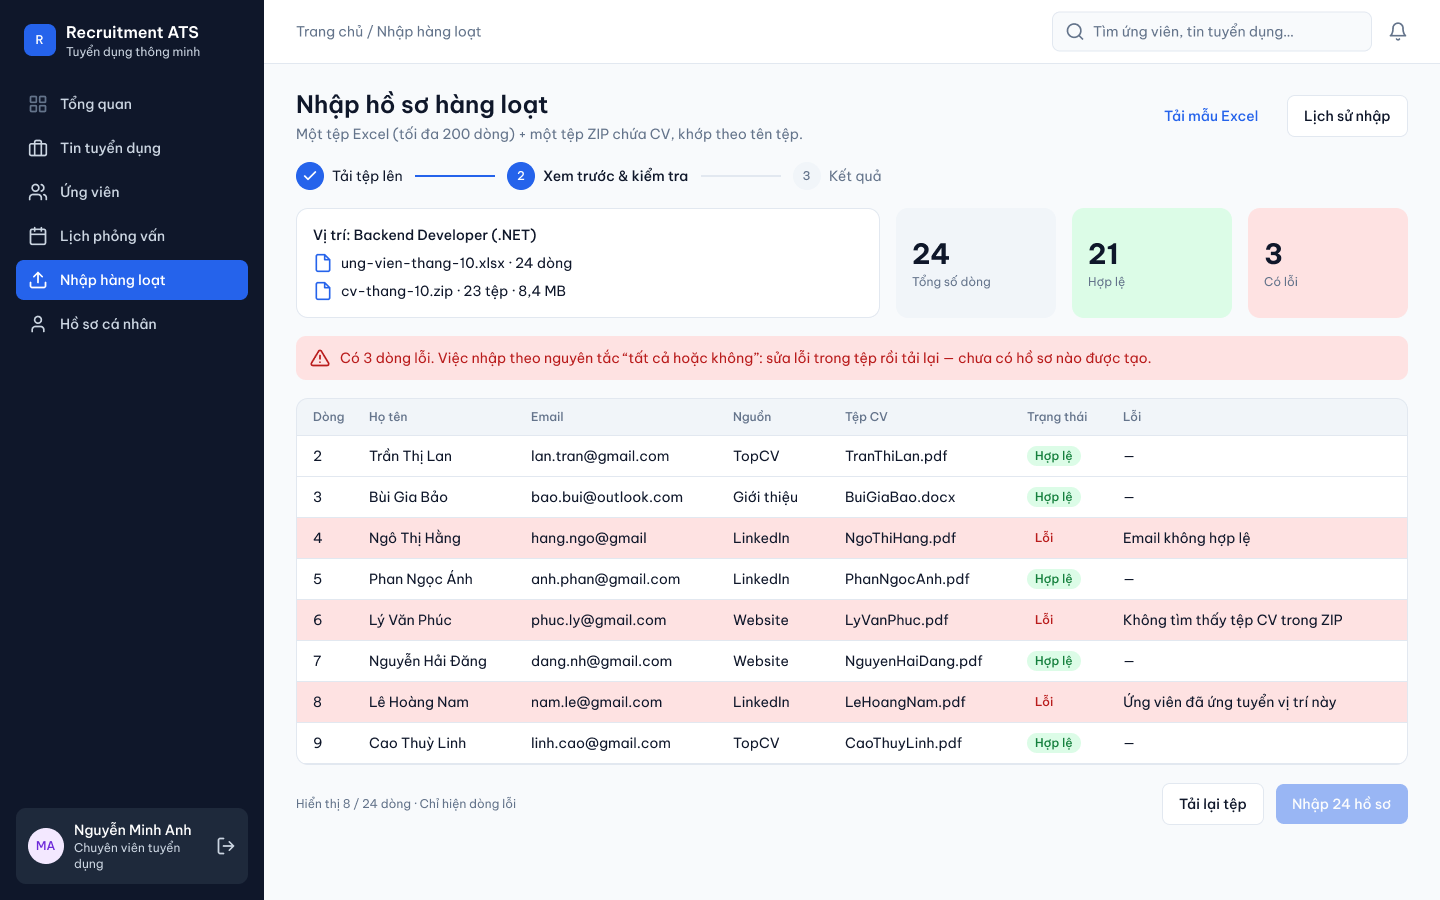
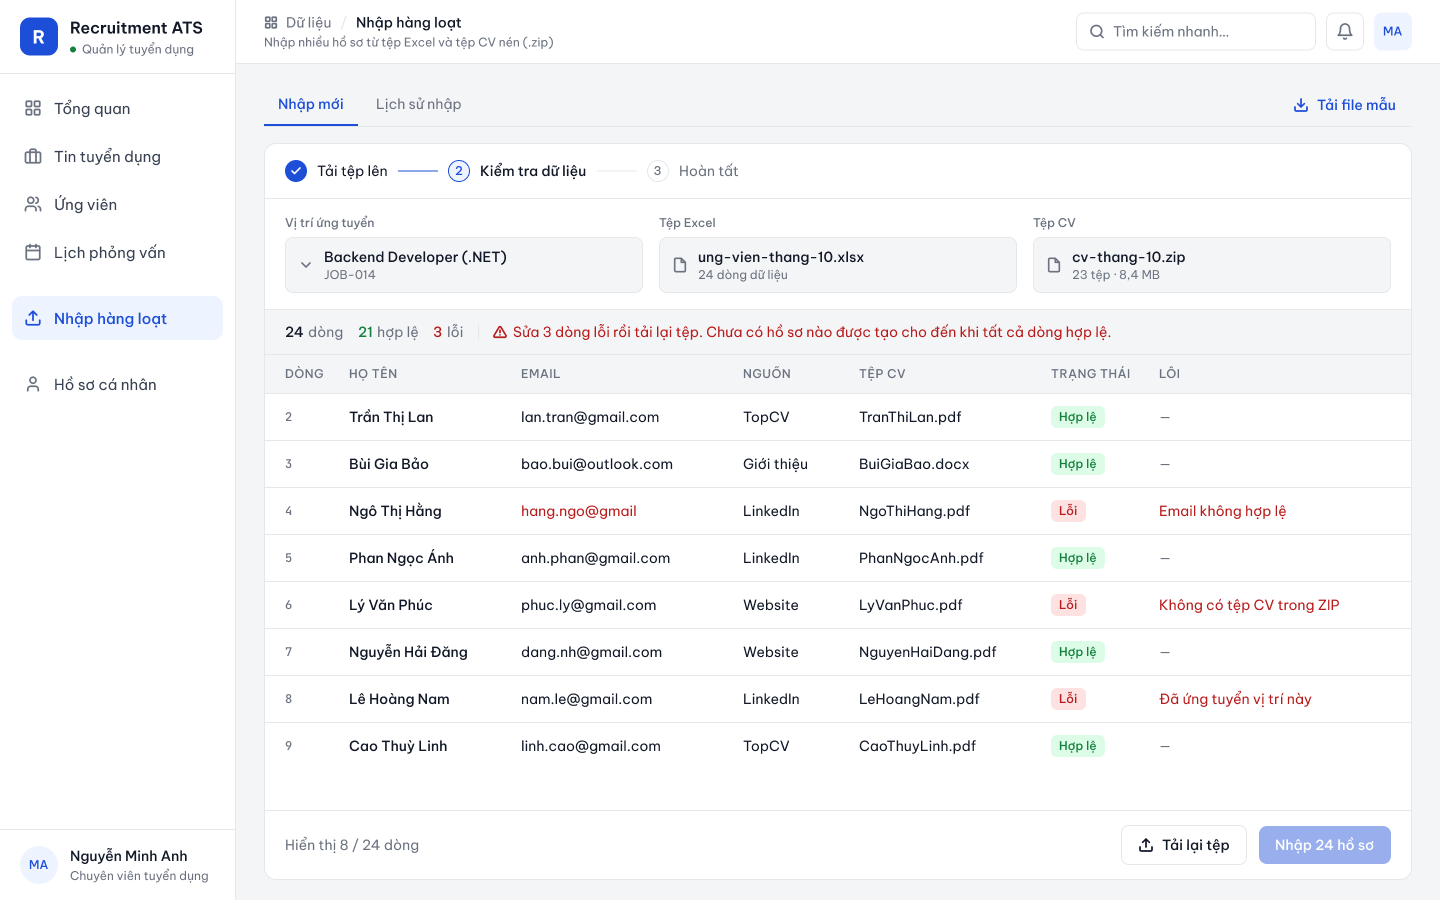
Redesign UI and mind map to match the reference project style
- Mind map redrawn as a balanced, aligned XMind-style map (PNG + .xmind)
- UI rebuilt in the reference visual language: light sidebar, breadcrumb
  topbar, uppercase table headers, monospace codes, forms in modals
- Remove AI-specific colour, decorative copy, and placeholder skeletons
- Update IA and UI/UX documents to the new screens

diff --git a/docs/05-ui-ux.md b/docs/05-ui-ux.md
@@ -4,12 +4,15 @@
 >
 > Figma file: [Recruitment ATS — UI](https://www.figma.com/design/0TYozUq5jB0KJcdo8vjVjQ/Untitled?node-id=0-1)
 
+The visual language follows the course reference project (HandmadeFinance): light sidebar, breadcrumb topbar with a one-line page description, white cards on a light-grey canvas, uppercase table headers, monospace record codes, and forms in modals. The UI is a working tool, not a marketing page: no decorative gradients in the app shell, no colour reserved for AI, no explanatory copy about how the system works inside the screens.
+
 ## Figma structure
 
 | Page | Content |
 |---|---|
 | `00 Foundations` | Colour variables, text styles, icons, and reusable components |
 | `01 Screens` | 11 desktop screens (1440 × 900), arranged in three rows by flow |
+| `02 Mind map` | Product mind map (exported to `docs/mindmap.png`) |
 
 ![Foundations](images/screens/00-foundations.png)
 
@@ -17,65 +20,63 @@
 
 ### Typography
 
-Font: **Be Vietnam Pro** (designed for Vietnamese diacritics).
+| Style | Font | Weight | Size / line height | Usage |
+|---|---|---|---|---|
+| `Display/H1` | Be Vietnam Pro | SemiBold | 24 / 32 | Modal titles |
+| `Display/H2` | Be Vietnam Pro | SemiBold | 18 / 26 | Brand name |
+| `Display/H3` | Be Vietnam Pro | SemiBold | 16 / 24 | Card titles |
+| `Body/Regular` · `Body/Medium` | Be Vietnam Pro | Regular · Medium | 14 / 20 | Body text, table cells, buttons |
+| `Caption/Regular` · `Caption/Medium` | Be Vietnam Pro | Regular · Medium | 12 / 16 | Meta information, labels |
+| `Table/Header` | Be Vietnam Pro | Medium, uppercase, +4% tracking | 12 / 16 | Table column headers |
+| `KPI/Value` | Be Vietnam Pro | Bold | 26–30 | Stat cards, fit score |
+| `Mono/Code` | JetBrains Mono | Medium | 12 / 16 | Record codes (`JOB-014`, `APP-0142`), interview times |
 
-| Style | Weight | Size / line height | Usage |
-|---|---|---|---|
-| `Display/H1` | SemiBold | 24 / 32 | Page titles |
-| `Display/H2` | SemiBold | 18 / 26 | Section titles, drawer titles |
-| `Display/H3` | SemiBold | 16 / 24 | Panel titles |
-| `Body/Regular` | Regular | 14 / 20 | Body text, table cells |
-| `Body/Medium` | Medium | 14 / 20 | Buttons, names, emphasis |
-| `Caption/Regular` | Regular | 12 / 16 | Meta information, hints |
-| `Caption/Medium` | Medium | 12 / 16 | Labels, badges, table headers |
-| `KPI/Value` | Bold | 28 / 36 | KPI numbers, fit score |
+Be Vietnam Pro is designed for Vietnamese diacritics.
 
 ### Colour tokens (Figma variables, collection `ATS Tokens`)
 
 | Token | Value | Usage |
 |---|---|---|
-| `color/primary` | `#2563EB` | Primary actions, active navigation, chart bars |
-| `color/text` / `color/text-muted` | `#0F172A` / `#64748B` | Text hierarchy |
-| `color/bg` / `color/surface` / `color/border` | `#F8FAFC` / `#FFFFFF` / `#E2E8F0` | Page, cards, dividers |
-| `color/sidebar` | `#0F172A` | Navigation sidebar |
-| `color/success` (+ `-soft`) | `#15803D` | Status: valid, active, score ≥ 75 |
-| `color/warning` (+ `-soft`) | `#B45309` | Status: score 50–74, missing must-have, deadline near |
-| `color/danger` (+ `-soft`) | `#B91C1C` | Status: errors, rejected, not met |
-| `color/ai` (+ `-soft`) | `#6D28D9` | Everything produced by AI is purple, so users always know what is an AI suggestion |
+| `color/primary` / `-soft` | `#1D4ED8` / `#EEF4FF` | Primary actions, active navigation, links, chart bars, selected options |
+| `color/text` / `color/text-muted` | `#111827` / `#6B7280` | Text hierarchy |
+| `color/bg` / `color/surface` / `color/border` | `#F4F5F7` / `#FFFFFF` / `#E5E7EB` | Canvas, cards, dividers |
+| `color/success` / `-soft` | `#15803D` / `#DCFCE7` | Status: active, valid, criterion met |
+| `color/warning` / `-soft` | `#B45309` / `#FEF3C7` | Status: deadline near, partial, missing must-have, CV evidence highlight |
+| `color/danger` / `-soft` | `#B91C1C` / `#FEE2E2` | Status: errors, criterion not met, overdue |
 
-Status colours are reserved for states and are always paired with a text label; they are never used to separate chart series.
+Status colours appear only as a small pill or a dot next to text — never as the only signal and never to separate chart series.
 
 ### Components
 
 | Component | Variants / properties |
 |---|---|
-| `Button` | `Type` = Primary, Secondary, Ghost, Danger, AI · `Label` |
-| `Badge` | `Tone` = Neutral, Info, Success, Warning, Danger, AI · `Label` |
-| `Input` | `Label`, `Value` (label is always visible) |
+| `Sidebar` | `User name`, `User role`, `Initials`; three nav groups; items hidden per role |
 | `NavItem` | `State` = Default, Active · `Label` · `Icon` (instance swap) |
-| `Sidebar` | `User name`, `User role`; nav items hidden per role |
-| `Topbar` | `Breadcrumb` |
-| `KPI Card` | `Label`, `Value`, `Delta` |
-| `Candidate Card` | `Name`, `Meta`, `Initials`, `Missing must-have` (boolean); nested score badge |
-| `icon/*` | 20 line icons (24-grid, 2 px stroke) |
+| `Topbar` | `Section`, `Page`, `Subtitle`, `Initials` |
+| `Button` | `Type` = Primary, Secondary, Ghost, Danger · `Label` · `Has icon` · `Icon` |
+| `Badge` | `Tone` · `Label` |
+| `Input` | `Label`, `Value` |
+| `Stat Card` | `Label`, `Value`, `Note` |
+| `Candidate Card` | `Name`, `Meta`, `Score`, `Missing must-have` (boolean) |
+| `icon/*` | 32 line icons (24-grid, 2 px stroke) |
 
 ## Screens
 
 | Screen | Figma frame | Role shown | Key UX decisions |
 |---|---|---|---|
-| `SCR-01` Login | SCR-01 Đăng nhập | — | Generic error for wrong password and disabled account (no account enumeration) |
-| `SCR-02` Dashboard | SCR-02 Tổng quan | HR Manager | KPIs, funnel, upcoming interviews, AI screening status, postings near deadline |
-| `SCR-10` Job postings | SCR-10 Danh sách tin tuyển dụng | Recruiter | Pipeline counts per posting in one column; status badge with text |
-| `SCR-11` Create posting | SCR-11 Tạo tin tuyển dụng | Recruiter | Criteria builder with must-have / nice-to-have and weight 1–5; scoring formula explained in place |
-| `SCR-13` Pipeline | SCR-13 Pipeline (Kanban) | Recruiter | AI score on every card, "Đang phân tích" state, "Thiếu tiêu chí bắt buộc" flag; Kanban/table toggle |
-| `SCR-23` AI analysis | SCR-23 Chi tiết hồ sơ — Phân tích AI | Recruiter | Score ring, per-criterion result + quote, highlighted quotes in CV preview, redaction note, AI disclaimer |
-| `SCR-24` Override AI | SCR-24 Điều chỉnh kết quả AI | Recruiter | Drawer keeps context; AI result vs. human result; mandatory reason; live score preview; audit note |
-| `SCR-32` Scorecard | SCR-32 Phiếu đánh giá phỏng vấn | Interviewer | Other scorecards locked until submit; AI score hidden; validation blocks incomplete submission |
-| `SCR-40` Bulk import | SCR-40 Nhập hàng loạt | Recruiter | 3-step wizard; all-or-nothing message; error rows highlighted with reason; import button disabled |
-| `SCR-50` Reports | SCR-50 Báo cáo tuyển dụng | HR Manager | Single-hue charts, direct value labels, "Xem dạng bảng" alternative, export PDF/XLSX |
-| `SCR-70` Users | SCR-70 Quản lý người dùng | Admin | Role and status badges; activate / deactivate inline |
+| `SCR-01` Login | SCR-01 Đăng nhập | — | Two panels as in the reference; demo-account chips per role; generic error for wrong password and disabled account |
+| `SCR-02` Dashboard | SCR-02 Tổng quan | HR Manager | Pipeline per position as a table, today's interviews, newest applications, and a *Cần xử lý* list of actionable items |
+| `SCR-10` Job postings | SCR-10 Tin tuyển dụng | Recruiter | Codes in monospace; hires vs. headcount; status pill only where it matters |
+| `SCR-11` Create posting | SCR-11 Tạo tin tuyển dụng (modal) | Recruiter | Modal with grouped sections; criteria as editable rows (name, type, weight); description collapsed |
+| `SCR-13` Pipeline | SCR-13 Pipeline ứng viên | Recruiter | Kanban columns with counts; card shows AI score chip and a warning line only when a must-have is missing |
+| `SCR-23` Criteria evaluation | SCR-23 Chi tiết hồ sơ — Đánh giá tiêu chí | Recruiter | Stage stepper; criteria table (weight, result, CV quote); CV preview with the quoted passages highlighted |
+| `SCR-24` Override | SCR-24 Điều chỉnh kết quả tiêu chí (modal) | Recruiter | AI result vs. adjusted result; mandatory reason with counter; score preview 89 → 92 |
+| `SCR-32` Scorecard | SCR-32 Phiếu đánh giá phỏng vấn | Interviewer | 1–5 segmented rating per criterion; unscored row marked; submit disabled until complete; panel status without others' content |
+| `SCR-40` Bulk import | SCR-40 Nhập hàng loạt | Recruiter | Stepper; file summary; counts; error rows explained in the last column; import disabled while errors exist |
+| `SCR-50` Reports | SCR-50 Báo cáo | HR Manager | Filter panel as in the reference; single-hue bar charts with value labels; export |
+| `SCR-70` Users | SCR-70 Người dùng | Admin | Role as plain text, status pill, inline edit and actions |
 
-Remaining screens from the [screen inventory](04-information-architecture.md#screen-inventory) (job detail overview, candidate table, add-application modal, move/reject modal, edit candidate, schedule interview, my interviews, audit log, profile, 403) reuse the same shell and components and are specified in the IA document.
+Remaining screens from the [screen inventory](04-information-architecture.md#screen-inventory) (job detail overview, candidate table, add-application modal, move/reject modal, edit candidate, schedule interview, my interviews, audit log, profile, 403) reuse the same shell and components.
 
 ### Login
 
@@ -89,7 +90,7 @@ Remaining screens from the [screen inventory](04-information-architecture.md#scr
 
 ![Job postings](images/screens/10-job-list.png)
 
-### Create job posting with evaluation criteria
+### Create job posting
 
 ![Create job posting](images/screens/11-job-form.png)
 
@@ -97,19 +98,19 @@ Remaining screens from the [screen inventory](04-information-architecture.md#scr
 
 ![Pipeline](images/screens/13-pipeline-kanban.png)
 
-### Application detail — AI analysis
+### Application detail — criteria evaluation
 
-![AI analysis](images/screens/23-application-ai-analysis.png)
+![Criteria evaluation](images/screens/23-application-evaluation.png)
 
-### Override AI result
+### Override a criterion result
 
-![Override AI result](images/screens/24-ai-override-drawer.png)
+![Override](images/screens/24-override-modal.png)
 
-### Interview scorecard (Interviewer, blind)
+### Interview scorecard (Interviewer)
 
 ![Scorecard](images/screens/32-scorecard.png)
 
-### Bulk import — preview
+### Bulk import
 
 ![Bulk import](images/screens/40-bulk-import.png)
 
@@ -123,12 +124,11 @@ Remaining screens from the [screen inventory](04-information-architecture.md#scr
 
 ## UX principles applied
 
-1. **AI is visibly advisory.** Purple marks every AI output; a disclaimer appears wherever a score is shown; no button lets AI change a stage.
-2. **Evidence before trust.** Each criterion shows the CV quote; quotes are highlighted in the CV preview so the recruiter can check them in seconds.
-3. **Human override is cheap but accountable.** Override is one drawer away, requires a reason, previews the new score, and is audited.
-4. **Fairness by design.** Personal data is redacted before AI analysis; interviewers do not see AI scores or other scorecards before submitting.
-5. **Role-shaped navigation.** The sidebar shows only permitted items (Recruiter: 6 items, Interviewer: 5, HR Manager and Admin: 9).
-6. **Recoverable errors.** Validation keeps user input and explains the rule (import errors per row, incomplete scorecard, wrong credentials).
-7. **Accessible by default.** Visible labels, WCAG AA contrast, status never by colour alone, keyboard alternative for drag-and-drop.
+1. **Evidence over decoration.** An AI score is a number next to the quotes that justify it; the quoted passages are highlighted in the CV so a recruiter can check them in seconds.
+2. **Human decisions stay explicit.** Stage changes are buttons the user presses; adjusting an AI result requires a reason and keeps the original.
+3. **Independent evaluation.** Interviewers see who has submitted, not what they wrote, until their own scorecard is in; the AI score is not shown to interviewers.
+4. **Role-shaped navigation.** The sidebar shows only permitted items (Recruiter 6, Interviewer 5, HR Manager and Admin 9).
+5. **Recoverable errors.** Validation keeps input and states the rule where it applies (import errors per row, unscored criterion, wrong credentials).
+6. **Accessible by default.** Visible labels, WCAG AA contrast, status never by colour alone, keyboard alternative for drag-and-drop.
 
 **Related:** [Information architecture](04-information-architecture.md) · [Use cases](02-use-cases.md)

diff --git a/docs/04-information-architecture.md b/docs/04-information-architecture.md
@@ -19,7 +19,7 @@ Recruitment ATS
     │   └── Interviewer variant: my interviews + pending scorecards
     ├── Job postings (Tin tuyển dụng)
     │   ├── List (search, status / department / owner filters, paging)
-    │   ├── Create / edit (details + criteria builder)
+    │   ├── Create / edit modal (details + criteria builder)
     │   └── Detail
     │       ├── Overview
     │       ├── Criteria
@@ -29,7 +29,7 @@ Recruitment ATS
     │   ├── Add application modal (CV upload)
     │   └── Application detail
     │       ├── Profile & CV preview
-    │       ├── AI analysis (score, criteria evidence, override drawer)
+    │       ├── Criteria evaluation (fit score, per-criterion evidence, override modal)
     │       ├── Interviews & scorecards
     │       └── Stage history
     ├── Interviews (Lịch phỏng vấn)
@@ -52,7 +52,7 @@ Recruitment ATS
 
 `#/login` `#/dashboard` `#/jobs` `#/jobs/new` `#/jobs/:id` `#/jobs/:id/edit` `#/jobs/:id/pipeline` `#/applications` `#/applications/:id` `#/interviews` `#/interviews/:id/scorecard` `#/import` `#/reports` `#/audit` `#/users` `#/profile` `#/403`
 
-Small forms (add application, edit candidate, move stage, reject, schedule interview, override AI, user form) open as **modals or drawers** on their parent page. Job posting create/edit is a full page because the criteria builder needs space.
+Forms (create/edit job posting, add application, edit candidate, move stage, reject, schedule interview, override a criterion result, user form) open as **modals** on their parent page, following the reference project's modal pattern: breadcrumb, title, short description, grouped field sections, and a sticky footer with actions.
 
 ## Navigation by role
 
@@ -77,14 +77,14 @@ Unauthorized items are **not rendered** in the sidebar; direct URL access shows 
 | `SCR-01` | Login | Page (two-column) | US01, US02 |
 | `SCR-02` | Dashboard | Page | US03 |
 | `SCR-10` | Job posting list | Page | US04, US07 |
-| `SCR-11` | Job posting create / edit | Page | US05, US06 |
+| `SCR-11` | Job posting create / edit | Modal on `SCR-10` | US05, US06 |
 | `SCR-12` | Job posting detail | Tabbed page | US04, US07 |
 | `SCR-13` | Pipeline board (Kanban) | Tab of `SCR-12` | US08, US11 |
 | `SCR-20` | Candidate table | Page | US08 |
 | `SCR-21` | Add application | Modal | US09 |
 | `SCR-22` | Application detail | Tabbed page | US08, US10, US11 |
-| `SCR-23` | AI analysis | Tab of `SCR-22` | US12 |
-| `SCR-24` | Override AI result | Drawer on `SCR-23` | US13 |
+| `SCR-23` | Criteria evaluation (AI) | Tab of `SCR-22` | US12 |
+| `SCR-24` | Override criterion result | Modal on `SCR-23` | US13 |
 | `SCR-25` | Move stage / reject | Modal | US11 |
 | `SCR-26` | Edit candidate | Modal | US10 |
 | `SCR-30` | Schedule interview | Modal | US14 |
@@ -130,7 +130,7 @@ flowchart TB
     Login["SCR-01 Login"] --> Shell["Authenticated shell<br/>sidebar + topbar"]
     Shell --> Dashboard["SCR-02 Dashboard"]
     Shell --> Jobs["SCR-10 Job postings"]
-    Jobs --> JobForm["SCR-11 Create / edit posting"]
+    Jobs --> JobForm["SCR-11 Create / edit posting modal"]
     Jobs --> JobDetail["SCR-12 Posting detail"]
     JobDetail --> Pipeline["SCR-13 Pipeline board"]
     Shell --> Candidates["SCR-20 Candidate table"]
@@ -138,8 +138,8 @@ flowchart TB
     Pipeline --> AddApp
     Candidates --> AppDetail["SCR-22 Application detail"]
     Pipeline --> AppDetail
-    AppDetail --> AI["SCR-23 AI analysis tab"]
-    AI --> Override["SCR-24 Override drawer"]
+    AppDetail --> AI["SCR-23 Criteria evaluation tab"]
+    AI --> Override["SCR-24 Override modal"]
     AppDetail --> Move["SCR-25 Move / reject modal"]
     AppDetail --> EditCand["SCR-26 Edit candidate modal"]
     AppDetail --> Schedule["SCR-30 Schedule interview modal"]
@@ -215,21 +215,19 @@ flowchart LR
 
 | Status | Badge (UI) | Behavior |
 |---|---|---|
-| `PENDING` / `PROCESSING` | "Đang phân tích" (spinner) | Card and detail show progress; page polls every 5 s |
-| `COMPLETED` | Score 0–100 with color band + "Thiếu tiêu chí bắt buộc" badge when flagged | Evidence list per criterion; quotes highlighted in the CV preview |
-| `FAILED` | "Phân tích lỗi" | Reason + "Phân tích lại" button; manual screening remains available |
+| `PENDING` / `PROCESSING` | Card meta "Đang phân tích CV…", score chip "AI —" | Page polls every 5 s |
+| `COMPLETED` | Score chip "AI 89"; warning line "Thiếu tiêu chí bắt buộc" with icon when flagged | Criteria table with result and quote; quotes highlighted in the CV preview |
+| `FAILED` | "Không phân tích được" (listed under *Cần xử lý* on the dashboard) | Reason + "Phân tích lại"; manual screening remains available |
 | `OUTDATED` | "Cần phân tích lại" | Criteria changed after analysis; old result still readable |
 | Overridden | "Đã điều chỉnh" | Shows AI value and human value side by side, with reason and actor |
 
-Score color bands: ≥ 75 green, 50–74 amber, < 50 grey. Colour is always combined with the number, never used alone.
-
-AI content is always labeled **"Gợi ý từ AI — quyết định cuối cùng thuộc về người tuyển dụng"**.
+The score is shown as a plain number; AI output gets no special colour. Criterion results use a status dot plus text (Đạt / Một phần / Không đạt), never colour alone. Every AI result carries the provenance line **"Gợi ý bởi AI · phân tích lúc …"**, and the override modal states that the original AI result is kept.
 
 ## Responsive and accessibility rules
 
 - Target: desktop first (≥ 1280 px). Tablet uses a collapsible sidebar; the Kanban board scrolls horizontally.
 - Kanban drag-and-drop always has a keyboard alternative ("Chuyển giai đoạn…" menu).
-- Modals and drawers trap focus, close with `Escape` when no submission is running, and restore focus to the trigger.
+- Modals trap focus, close with `Escape` when no submission is running, and restore focus to the trigger.
 - Every input has a visible label; icon-only buttons have accessible names; status and scores are never shown by colour alone.
 - Text contrast meets WCAG 2.1 AA (4.5:1 for body text).
 - Dates use `dd/MM/yyyy` and times `HH:mm` in the user's timezone.

diff --git a/README.md b/README.md
@@ -29,50 +29,9 @@ Full analysis, market research (Greenhouse, Base E-Hiring), scope, constraints, 
 
 ### 1.2 Product mind map
 
-Editable XMind file: [`docs/mindmap/recruitment-ats.xmind`](docs/mindmap/recruitment-ats.xmind).
+![Recruitment ATS mind map](docs/mindmap.png)
 
-```mermaid
-mindmap
-  root((Recruitment ATS))
-    Problem
-      CVs scattered across channels
-      Manual slow screening
-      No pipeline visibility
-      Biased interview feedback
-      Personal data risk
-    Roles
-      Admin
-      HR Manager
-      Recruiter
-      Interviewer
-      AI service - external
-    E1 Access and accounts
-      Login and logout
-      User management
-      Profile and password
-    E2 Job postings
-      Browse and search
-      Create and edit with weighted criteria
-      Close and reopen
-    E3 Candidates
-      Kanban and table views
-      Add application with CV
-      Pipeline stages
-      Bulk import Excel plus ZIP
-    E4 AI screening
-      Redact personal data
-      Per-criterion evidence
-      Backend-calculated score
-      Human override with reason
-    E5 Interviews
-      Schedule and panel
-      Blind scorecards
-    E6 Insight and governance
-      Dashboard
-      Reports and export
-      Audit log
-      CV retention
-```
+Editable source: [`docs/mindmap/recruitment-ats.xmind`](docs/mindmap/recruitment-ats.xmind) (same structure, open with XMind).
 
 ### 1.3 INVEST requirements
 
@@ -191,18 +150,18 @@ Authenticated
 
 ### 2.2 Screen hierarchy
 
-Login leads to the authenticated shell (sidebar + topbar). The shell owns navigation to feature pages; small forms (add application, move/reject, schedule interview, override AI, user form) open as modals or drawers on their parent page.
+Login leads to the authenticated shell (sidebar + topbar). The shell owns navigation to feature pages; forms (create posting, add application, move/reject, schedule interview, override a criterion result, user form) open as modals on their parent page, as in the reference project.
 
 ```mermaid
 flowchart TB
     Login["Login"] --> Shell["Authenticated shell"]
     Shell --> Dashboard["Dashboard"]
     Shell --> Jobs["Job postings"] --> JobDetail["Posting detail"] --> Pipeline["Pipeline board"]
-    Jobs --> JobForm["Create / edit posting"]
+    Jobs --> JobForm["Create / edit posting modal"]
     Shell --> Candidates["Candidate table"]
     Pipeline --> AppDetail["Application detail"]
     Candidates --> AppDetail
-    AppDetail --> AI["AI analysis"] --> Override["Override drawer"]
+    AppDetail --> AI["Criteria evaluation"] --> Override["Override modal"]
     AppDetail --> Schedule["Schedule interview"]
     Shell --> MyInterviews["My interviews"] --> Scorecard["Scorecard"]
     Shell --> Import["Bulk import"]
@@ -227,15 +186,15 @@ High-fidelity prototype in Figma: **[Recruitment ATS — UI](https://www.figma.c
 
 ![Pipeline](docs/images/screens/13-pipeline-kanban.png)
 
-#### Application detail — AI analysis with evidence
+#### Application detail — criteria evaluation with CV evidence
 
-![AI analysis](docs/images/screens/23-application-ai-analysis.png)
+![Criteria evaluation](docs/images/screens/23-application-evaluation.png)
 
-#### Override AI result
+#### Override a criterion result
 
-![Override AI](docs/images/screens/24-ai-override-drawer.png)
+![Override](docs/images/screens/24-override-modal.png)
 
-#### Blind interview scorecard
+#### Interview scorecard
 
 ![Scorecard](docs/images/screens/32-scorecard.png)
 
@@ -262,7 +221,7 @@ _Planned._
 - [INVEST requirements and acceptance criteria](docs/03-invest-requirements.md)
 - [Information architecture](docs/04-information-architecture.md)
 - [UI/UX design](docs/05-ui-ux.md)
-- [Mind map (XMind)](docs/mindmap/recruitment-ats.xmind)
+- [Mind map](docs/mindmap.png) · [XMind source](docs/mindmap/recruitment-ats.xmind)
 
 ## Project Progress
 
